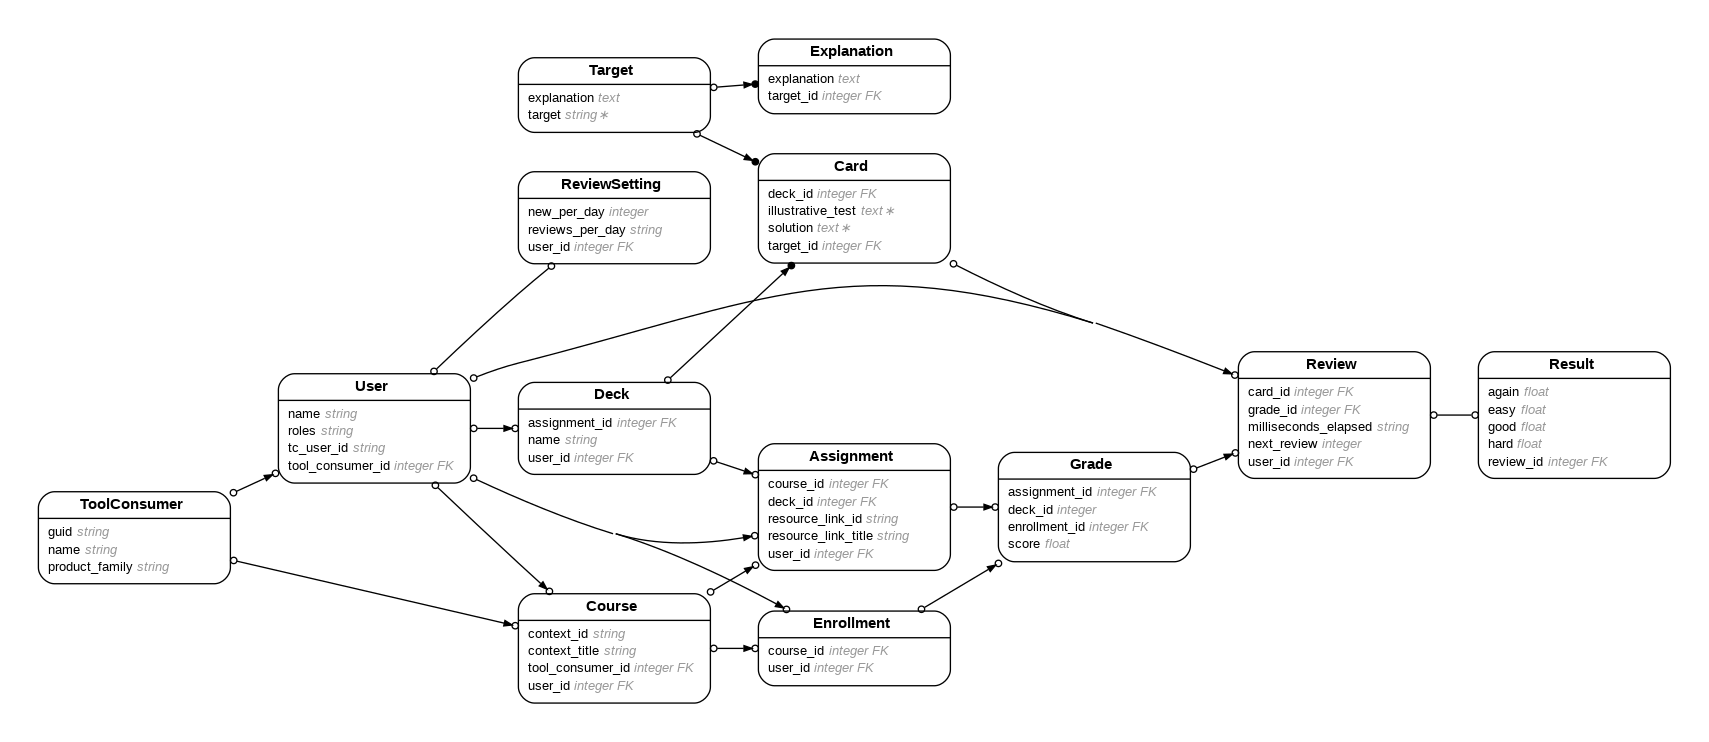
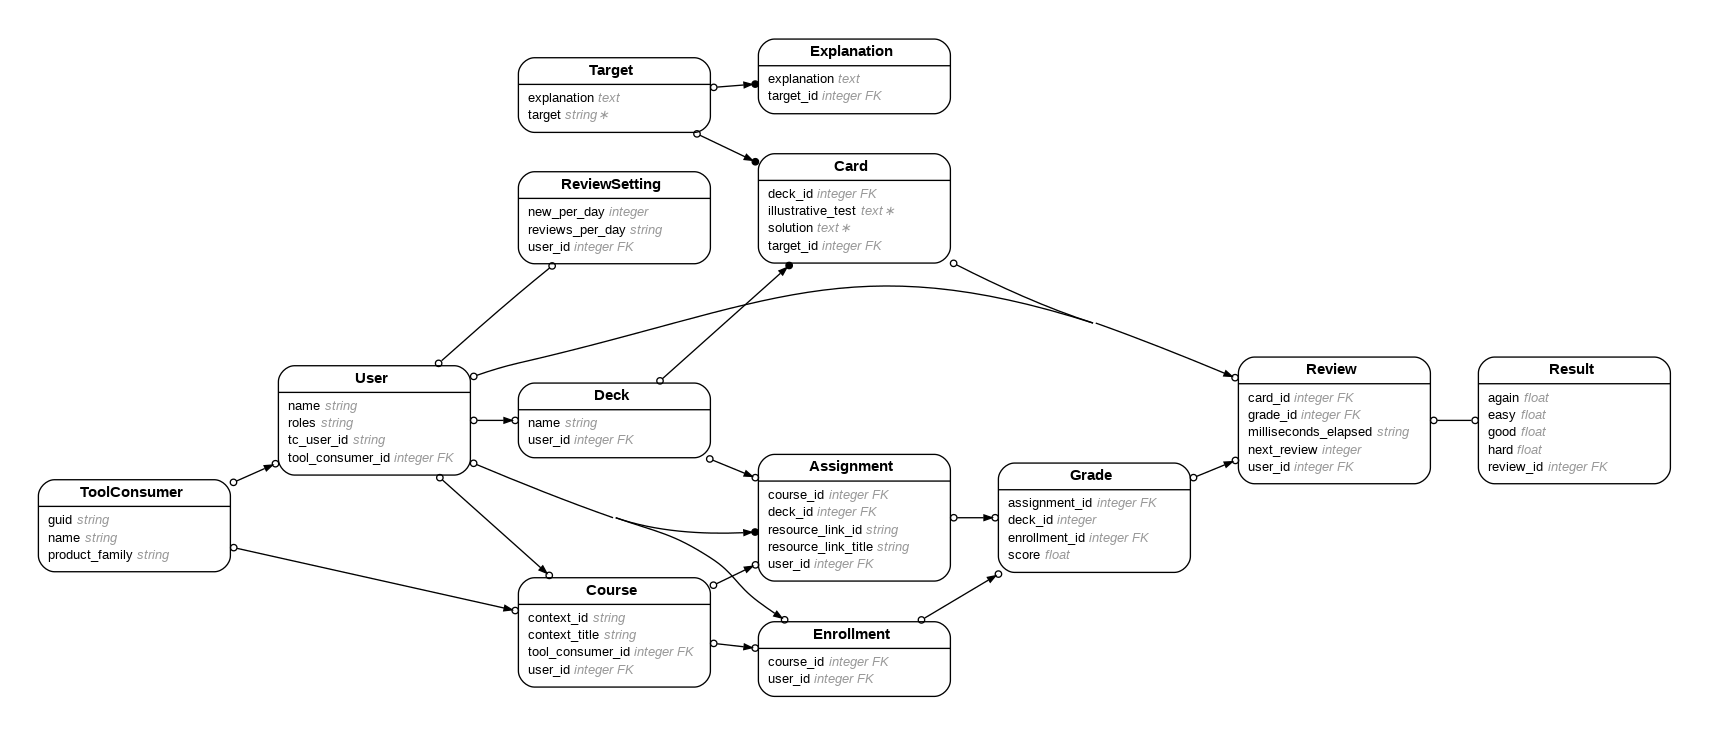
updated issue with deck - assignment model

diff --git a/app/models/deck.rb b/app/models/deck.rb
@@ -13,7 +13,6 @@ class Deck < ApplicationRecord
   belongs_to(:user, { :required => false, :class_name => "User", :foreign_key => "user_id" })
   # has_many(:tags, { :class_name => "Tag", :foreign_key => "deck_id", :dependent => :destroy })
   has_many(:cards, { :class_name => "Card", :foreign_key => "deck_id", :dependent => :destroy })
-  belongs_to(:assignment, { :required => false, :class_name => "Assignment", :foreign_key => "assignment_id" })
   # has_many(:categories, { :through => :tags, :source => :category })
 
 end

diff --git a/db/schema.rb b/db/schema.rb
@@ -46,7 +46,6 @@ ActiveRecord::Schema.define(version: 2021_08_11_215713) do
   create_table "decks", force: :cascade do |t|
     t.string "name"
     t.integer "user_id"
-    t.integer "assignment_id"
     t.datetime "created_at", precision: 6, null: false
     t.datetime "updated_at", precision: 6, null: false
   end

diff --git a/db/migrate/20210531220015_create_decks.rb b/db/migrate/20210531220015_create_decks.rb
@@ -3,7 +3,6 @@ class CreateDecks < ActiveRecord::Migration[6.1]
     create_table :decks do |t|
       t.string :name
       t.integer :user_id
-      t.integer :assignment_id
 
       t.timestamps
     end
